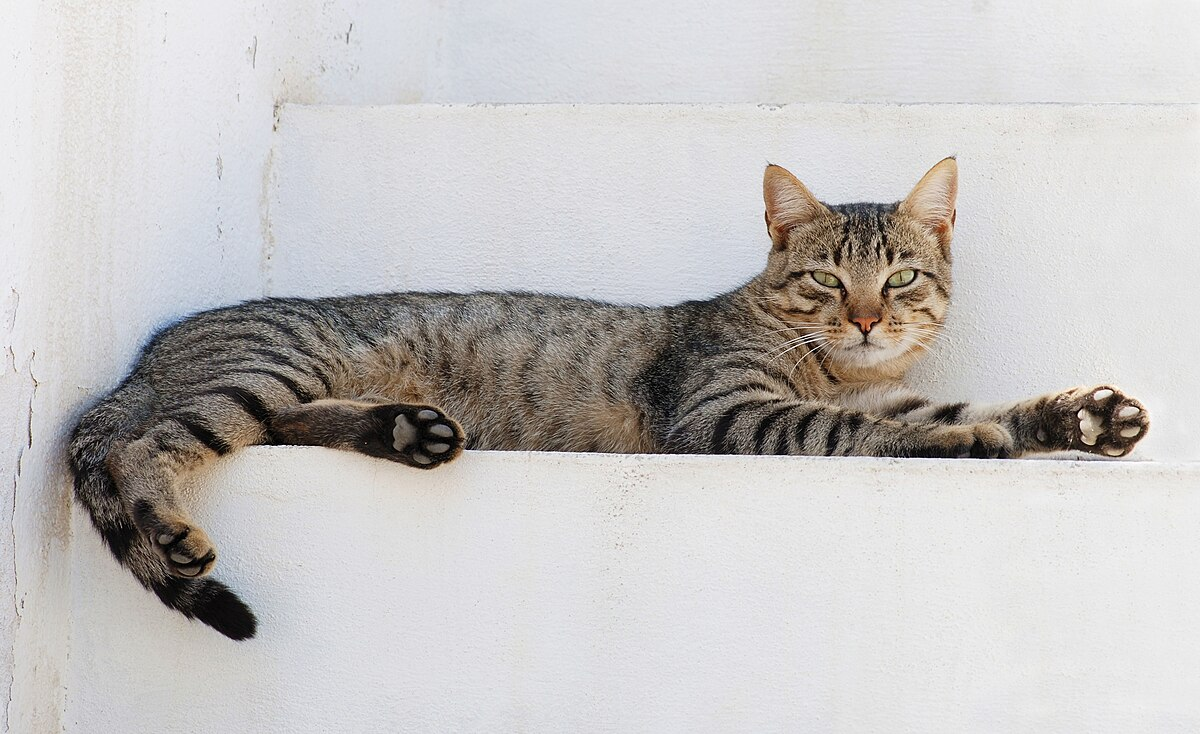
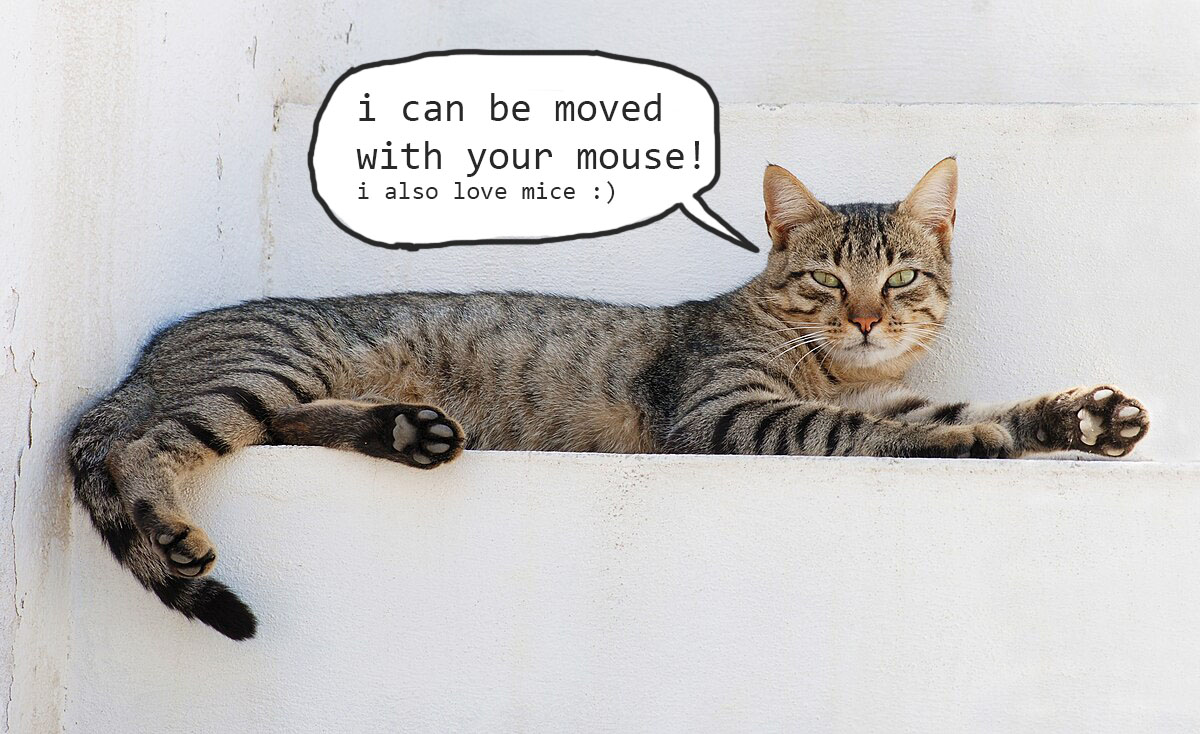
draggable

Changed region(s): [[0.2467, 0.0599, 0.6167, 0.3597], [0.6167, 0.3297, 0.6475, 0.3597]]

diff --git a/index.html b/index.html
@@ -25,9 +25,10 @@
         
         <img src="resources/underConstruction.gif">
         <p>you can very unsecurely contact us at hanaplusdrain@gmail.com.  maybe drain will acquire us a better method of communication on day</p>
-        <p>want to see more? visit the <a>oatmilk tierlist</a> but it actually wont be there yet just wait pplease</p>
+        <p>want to see more? visit the <a href="oat.html">oatmilk tierlist</a> but it actually wont be there yet just wait pplease ACTUALLY ITS HERE NOW</p>
         <p>while waiting, you can wait for the <a href="food.html">el camino passport</a>, a food handbook designed to let bay area non-locals figure out what to eat along the historical road, but that won't be there yet either.  not yet...</p>
         <p>while waiting for that, visit the website's <a>about us</a>, still work in progress</p>
+        <p>ITS UNDER CONSTRUCTION EVERYTHING IS UNDER CONSTRUCTION</p>
         <p>baby's first git</p>
         <p style="font-family:Comic Sans MS, Comic Sans, cursive, sans-serif;">Comic Sans MS, Comic Sans, cursive, sans-serif</p>
         <p style="font-family:Helvetica, sans-serif;">Helvetica, sans-serif</p>
